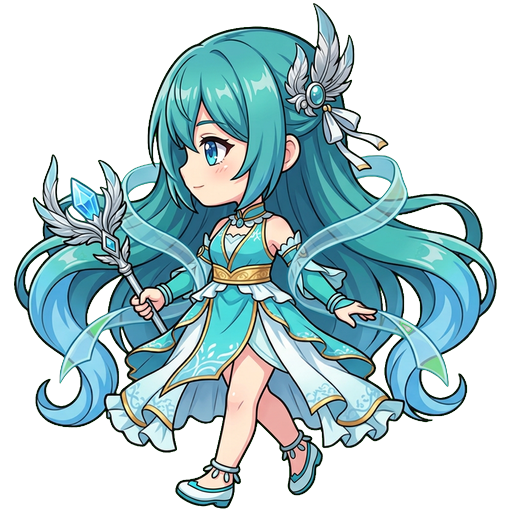
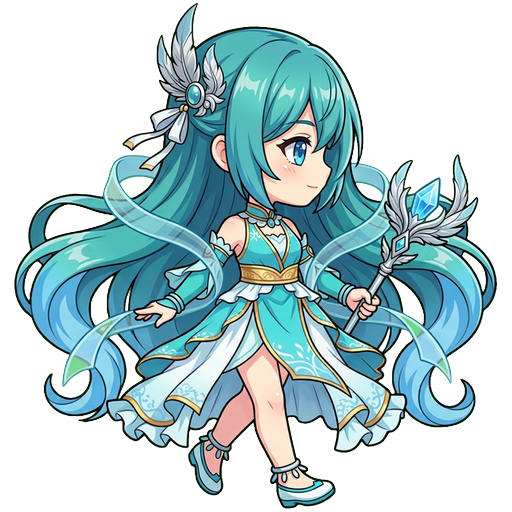
v2.1.1: colision de area de tronco + orden por pies (arbol delante/detras), rocas siempre debajo, fix teclas pegadas (blur), perfiles 12/12 verificados mirando a la derecha

diff --git a/src/map.js b/src/map.js
@@ -34,15 +34,24 @@ export class Mapa {
     for (const p of this.portalesPos) this._limpiarArea(p.tx, p.ty, 2); // plaza despejada
     this._limpiarArea(40, 40, 3); // zona de spawn central despejada
 
-    // Capa ALTA (árboles y rocas): se dibuja mezclada con las entidades
-    // en orden de profundidad (y) para que el jugador pase POR DETRÁS.
+    // Colisiones de TRONCO (área pequeña y baja) + capa ALTA de árboles.
+    // Las ROCAS sí colisionan (tile sólido) pero se dibujan SIEMPRE por
+    // debajo de las entidades: son bajas, nunca deben tapar al jugador.
+    this.tronco = {}; // índice de tile -> rect del tronco {x,y,w,h}
     this.tall = [];
     for (let ty = 0; ty < MAP_H; ty++) for (let tx = 0; tx < MAP_W; tx++) {
-      const d = this.deco[ty * MAP_W + tx];
-      if (d === 'arbol') this.tall.push({ tipo: 'arbol', x: tx * TILE_SIZE + 16, baseY: ty * TILE_SIZE + 30, ancho: 46, alto: 65 });
-      else if (d === 'roca') this.tall.push({ tipo: 'roca', x: tx * TILE_SIZE + 16, baseY: ty * TILE_SIZE + 25, ancho: 28, alto: 24 });
+      if (this.deco[ty * MAP_W + tx] === 'arbol') {
+        this.tall.push({ tipo: 'arbol', x: tx * TILE_SIZE + 16, baseY: ty * TILE_SIZE + 30, ancho: 46, alto: 65 });
+        this.tronco[ty * MAP_W + tx] = { x: tx * TILE_SIZE + 10, y: ty * TILE_SIZE + 8, w: 12, h: 22 };
+      }
     }
     this.tall.sort((a, b) => a.baseY - b.baseY);
+    // Envoltorios ESTABLES para el orden de profundidad (evita crear
+    // ~400 objetos por frame: eso provocaba tirones de memoria)
+    this._tallWrap = this.tall.map(it => ({
+      y: it.baseY,
+      o: { x: it.x - 32, y: it.baseY - 96, width: 64, height: 120, render: c => this.dibujarAlto(c, it) }
+    }));
   }
 
   _generar(seed) {
@@ -98,14 +107,25 @@ export class Mapa {
     return this.solid[ty * MAP_W + tx] !== 0;
   }
 
-  /** ¿Colisiona un rectángulo contra tiles sólidos? (recorre TODOS los
-   *  tiles que toca el rectángulo: sin puntos ciegos entre esquinas) */
+  /** ¿Colisiona un rectángulo contra el mapa? Recorre TODOS los tiles que
+   *  toca (sin puntos ciegos). Los ÁRBOLES solo bloquean por el TRONCO
+   *  (área baja y central del tile): puedes rodearlos, y si tus pies quedan
+   *  por encima del tronco pasas POR DETRÁS (te tapa la copa); si quedan
+   *  por debajo, pasas POR DELANTE (te ves encima del árbol). */
   rectSolido(x, y, w, h) {
     const tx0 = Math.floor(x / TILE_SIZE), tx1 = Math.floor((x + w) / TILE_SIZE);
     const ty0 = Math.floor(y / TILE_SIZE), ty1 = Math.floor((y + h) / TILE_SIZE);
     for (let ty = ty0; ty <= ty1; ty++) for (let tx = tx0; tx <= tx1; tx++) {
       if (tx < 0 || ty < 0 || tx >= MAP_W || ty >= MAP_H) return true;
-      if (this.solid[ty * MAP_W + tx] !== 0) return true;
+      const i = ty * MAP_W + tx;
+      const s = this.solid[i];
+      if (s === 0) continue;
+      if (s === 3) { // árbol: solo el tronco es macizo
+        const t = this.tronco[i];
+        if (t && x < t.x + t.w && x + w > t.x && y < t.y + t.h && y + h > t.y) return true;
+        continue;
+      }
+      return true; // pared, agua o roca: el tile entero bloquea
     }
     return false;
   }
@@ -171,7 +191,8 @@ export class Mapa {
       ctx.strokeStyle = 'rgba(0,0,0,0.07)';
       ctx.strokeRect(px + .5, py + .5, T, T);
 
-      // Decoración baja (flores) — árboles y rocas van en la capa alta
+      // Decoración baja: flores y ROCAS se dibujan aquí (siempre por DEBAJO
+      // del jugador y los enemigos) — los árboles van en la capa alta
       const d = this.deco[i];
       const g = this.game;
       if (d === 'flor') {
@@ -182,6 +203,19 @@ export class Mapa {
         } else {
           ctx.font = '13px serif'; ctx.textAlign = 'center';
           ctx.fillText(((x + y) % 2) ? '🌸' : '🌼', px + 16, py + 21);
+        }
+      } else if (d === 'roca') {
+        const img = g.assets['tile_roca'];
+        if (img) {
+          // sombra de anclaje + roca (colisiona, pero nunca tapa al jugador)
+          ctx.save(); ctx.globalAlpha = 0.28; ctx.fillStyle = '#000';
+          ctx.beginPath(); ctx.ellipse(px + 16, py + 23, 12, 4, 0, 0, Math.PI * 2); ctx.fill(); ctx.restore();
+          ctx.drawImage(img, px + 16 - 14, py + 25 - 24, 28, 24);
+        } else {
+          ctx.fillStyle = '#7d8590';
+          ctx.beginPath(); ctx.arc(px + 16, py + 20, 9, 0, Math.PI * 2); ctx.fill();
+          ctx.fillStyle = '#565e68';
+          ctx.beginPath(); ctx.arc(px + 13, py + 17, 4, 0, Math.PI * 2); ctx.fill();
         }
       }
     }
@@ -220,39 +254,24 @@ export class Mapa {
     }
   }
 
-  /** Dibuja un elemento ALTO (árbol/roca). El Game lo llama en orden de
+  /** Dibuja un elemento ALTO (árbol). El Game lo llama en orden de
    *  profundidad mezclado con jugador/enemigos: si el jugador está por
-   *  detrás (pies más arriba), el árbol se pinta ENCIMA y lo tapa. */
+   *  detrás (pies más arriba del tronco), el árbol se pinta ENCIMA. */
   dibujarAlto(ctx, it) {
     const g = this.game;
-    if (it.tipo === 'arbol') {
-      const img = g.assets['tile_arbol'];
-      if (img) {
-        ctx.save(); ctx.globalAlpha = 0.3; ctx.fillStyle = '#000';
-        ctx.beginPath(); ctx.ellipse(it.x, it.baseY - 2, 10, 3.5, 0, 0, Math.PI * 2); ctx.fill(); ctx.restore();
-        const wA = 46, hA = 65; // sprite 181x256 remasterizado
-        ctx.drawImage(img, it.x - wA / 2, it.baseY - hA, wA, hA);
-      } else { // respaldo procedural
-        const px = it.x - 16, py = it.baseY - 32;
-        ctx.fillStyle = '#5d4037'; ctx.fillRect(px + 13, py + 18, 6, 12);
-        ctx.fillStyle = '#14532d';
-        ctx.beginPath(); ctx.moveTo(px + 16, py - 4); ctx.lineTo(px + 4, py + 14); ctx.lineTo(px + 28, py + 14); ctx.fill();
-        ctx.fillStyle = '#166534';
-        ctx.beginPath(); ctx.moveTo(px + 16, py - 10); ctx.lineTo(px + 2, py + 8); ctx.lineTo(px + 30, py + 8); ctx.fill();
-      }
-    } else if (it.tipo === 'roca') {
-      const img = g.assets['tile_roca'];
-      if (img) {
-        ctx.save(); ctx.globalAlpha = 0.28; ctx.fillStyle = '#000';
-        ctx.beginPath(); ctx.ellipse(it.x, it.baseY - 2, 12, 4, 0, 0, Math.PI * 2); ctx.fill(); ctx.restore();
-        ctx.drawImage(img, it.x - 14, it.baseY - 24, 28, 24);
-      } else { // respaldo procedural
-        const px = it.x - 16, py = it.baseY - 32;
-        ctx.fillStyle = '#7d8590';
-        ctx.beginPath(); ctx.arc(px + 16, py + 20, 9, 0, Math.PI * 2); ctx.fill();
-        ctx.fillStyle = '#565e68';
-        ctx.beginPath(); ctx.arc(px + 13, py + 17, 4, 0, Math.PI * 2); ctx.fill();
-      }
+    const img = g.assets['tile_arbol'];
+    if (img) {
+      ctx.save(); ctx.globalAlpha = 0.3; ctx.fillStyle = '#000';
+      ctx.beginPath(); ctx.ellipse(it.x, it.baseY - 2, 10, 3.5, 0, 0, Math.PI * 2); ctx.fill(); ctx.restore();
+      const wA = 46, hA = 65; // sprite 181x256 remasterizado
+      ctx.drawImage(img, it.x - wA / 2, it.baseY - hA, wA, hA);
+    } else { // respaldo procedural
+      const px = it.x - 16, py = it.baseY - 32;
+      ctx.fillStyle = '#5d4037'; ctx.fillRect(px + 13, py + 18, 6, 12);
+      ctx.fillStyle = '#14532d';
+      ctx.beginPath(); ctx.moveTo(px + 16, py - 4); ctx.lineTo(px + 4, py + 14); ctx.lineTo(px + 28, py + 14); ctx.fill();
+      ctx.fillStyle = '#166534';
+      ctx.beginPath(); ctx.moveTo(px + 16, py - 10); ctx.lineTo(px + 2, py + 8); ctx.lineTo(px + 30, py + 8); ctx.fill();
     }
   }
 

diff --git a/src/game.js b/src/game.js
@@ -238,24 +238,18 @@ export class Game {
 
     this.currentMap.render(ctx, this.camera);
 
-    // Orden de render por profundidad (y) para efecto top-down.
-    // La capa ALTA del mapa (árboles, rocas, pilares) se mezcla con las
-    // entidades: si el jugador está detrás (pies más arriba), lo tapan.
-    const mapa = this.currentMap;
-    const capaAlta = (mapa.tall || []).map(it => ({
-      y: it.baseY,
-      o: {
-        x: it.x - 32, y: it.baseY - 96, width: 64, height: 120,
-        render: c => mapa.dibujarAlto(c, it)
-      }
-    }));
+    // Orden de render por profundidad: se compara la SUELA (pies) de cada
+    // entidad contra la base del tronco de los árboles/pilares. Así, si
+    // caminas por DEBAJO (delante) del árbol te ves ENCIMA; si pasas por
+    // detrás (arriba), la copa te tapa. Los envoltorios de la capa alta
+    // ya vienen precomputados del mapa (cero basura por frame).
     const dibujables = [
-      ...capaAlta,
-      ...this.groundItems.map(g => ({ y: g.y, o: g })),
-      ...this.npcs.map(n => ({ y: n.y, o: n })),
-      ...this.shadows.map(s => ({ y: s.y, o: s })),
-      ...this.enemies.map(e => ({ y: e.y, o: e })),
-      { y: this.player.y, o: this.player }
+      ...(this.currentMap._tallWrap || []),
+      ...this.groundItems.map(g => ({ y: g.y + (g._pie || 0), o: g })),
+      ...this.npcs.map(n => ({ y: n.y + (n._pie || 0), o: n })),
+      ...this.shadows.map(s => ({ y: s.y + (s._pie || 0), o: s })),
+      ...this.enemies.map(e => ({ y: e.y + (e._pie || 0), o: e })),
+      { y: this.player.y + this.player._pie, o: this.player }
     ].sort((a, b) => a.y - b.y);
     for (const d of dibujables) if (this.camera.isVisible(d.o)) d.o.render(ctx);
 

diff --git a/sw.js b/sw.js
@@ -25,9 +25,10 @@ const PRECACHE = [
   './assets/chars/mika.png', './assets/chars/roku.png', './assets/chars/elena.png',
   './assets/chars/atlas.png', './assets/chars/nix.png', './assets/chars/hana.png',
   './assets/chars/lado_kaito.png', './assets/chars/lado_rin.png',
-  './assets/chars/lado_grom.png', './assets/chars/lado_sora.png',
-  './assets/chars/lado_dante.png', './assets/chars/lado_mika.png',
-  './assets/chars/lado_roku.png', './assets/chars/lado_atlas.png',
+  './assets/chars/lado_yuna.png', './assets/chars/lado_grom.png',
+  './assets/chars/lado_sora.png', './assets/chars/lado_dante.png',
+  './assets/chars/lado_mika.png', './assets/chars/lado_roku.png',
+  './assets/chars/lado_elena.png', './assets/chars/lado_atlas.png',
   './assets/chars/lado_nix.png', './assets/chars/lado_hana.png',
   './assets/sprites/lobo.png', './assets/sprites/murcielago.png',
   './assets/sprites/nomuerto.png', './assets/sprites/duende.png', './assets/sprites/mago.png',

diff --git a/src/input.js b/src/input.js
@@ -43,6 +43,18 @@ export class InputManager {
     this.game.canvas.addEventListener('pointerdown', e => {
       if (e.pointerType === 'mouse' && this.game.state === 'PLAYING') this.justPressed['KeyZ'] = true;
     });
+
+    // Anti "personaje caminando solo": si la ventana pierde el foco (cambiar
+    // de pestaña, alt-tab, clic fuera), el navegador no avisa del keyup y la
+    // tecla quedaba pulsada para siempre. Soltamos TODO al perder el foco.
+    const soltarTodo = () => {
+      this.keys = {};
+      this.justPressed = {};
+      this._pinch = null;
+      if (this.joy.active) { this.joy.active = false; this.joy.dx = this.joy.dy = 0; }
+    };
+    window.addEventListener('blur', soltarTodo);
+    document.addEventListener('visibilitychange', () => { if (document.hidden) soltarTodo(); });
   }
 
   /** ¿Hay cursor utilizable? (PC sin modo táctil) */

diff --git a/src/ui.js b/src/ui.js
@@ -146,7 +146,7 @@ export class UI {
       <button class="rpg-btn purple" id="bt-nueva">✦ Nueva partida</button>
       <button class="rpg-btn small" id="bt-cazador">🧝 Cazador</button>
       <button class="rpg-btn small" id="bt-creditos">Créditos</button>
-      <div class="title-ver">v2.1 · 🎥 zoom: rueda/+/− · I inventario · M mapa · N sonido</div>`;
+      <div class="title-ver">v2.1.1 · 🎥 zoom: rueda/+/− · I inventario · M mapa · N sonido</div>`;
     o.querySelector('#bt-continuar').addEventListener('click', async () => {
       this.game.audio.playSFX('menuOk');
       await this._entrarBosque();

diff --git a/src/dungeon.js b/src/dungeon.js
@@ -47,6 +47,11 @@ export class DungeonMap {
       }
     }
     this.tall.sort((a, b) => a.baseY - b.baseY);
+    // Envoltorios estables (sin basura por frame)
+    this._tallWrap = this.tall.map(it => ({
+      y: it.baseY,
+      o: { x: it.x - 16, y: it.baseY - 40, width: 32, height: 44, render: c => this.dibujarAlto(c, it) }
+    }));
   }
 
   _pon(tx, ty, suelo, solid, deco = null) {

diff --git a/src/enemy.js b/src/enemy.js
@@ -50,6 +50,7 @@ export class Enemy {
     this.animT = randomFloat(0, 9);
     this.wanderT = 0; this.wanderX = 0; this.wanderY = 0;
     this.retroceder = 0; // murciélago: picada y retroceso
+    this._pie = 37;      // ancla de profundidad: la suela del sprite (y+37)
   }
 
   /* ---------- Utilidades de movimiento con colisión de mapa ---------- */

diff --git a/src/player.js b/src/player.js
@@ -47,6 +47,7 @@ export class Player {
     this.gold = 0;
     this.totalKills = 0;
     this.facingSign = 1; // flip visual del sprite
+    this._pie = 40;      // ancla de profundidad: la suela del sprite (y+40)
 
     // Animación (bobbing, el sprite es una imagen completa)
     this.animTimer = randomFloat(0, 5);

diff --git a/src/shadow.js b/src/shadow.js
@@ -26,6 +26,7 @@ export class Shadow {
     this.target = null;
     this.t = Math.random() * 9;
     this._humoT = 0;
+    this._pie = 37; // ancla de profundidad: la suela del sprite
   }
 
   get atk() { return this.player.atk * SHADOW_DAMAGE_RATIO; }

diff --git a/src/item.js b/src/item.js
@@ -23,6 +23,7 @@ export class GroundItem {
     this.width = 24; this.height = 24;
     this.recogido = false;
     this.t = Math.random() * 6;
+    this._pie = 22; // ancla de profundidad: apoyado en el suelo
   }
 
   update(dt) { this.t += dt; }

diff --git a/src/npc.js b/src/npc.js
@@ -14,6 +14,7 @@ export class NPC {
     this.width = 32; this.height = 32;
     this.interactRange = 58;
     this.t = Math.random() * 6;
+    this._pie = 30; // ancla de profundidad: la suela del sprite
   }
 
   update(dt) { this.t += dt; }

diff --git a/tools/lado.py b/tools/lado.py
@@ -2,9 +2,13 @@
 """Procesa los sprites de perfil (lado_*.png): chroma-key del fondo verde,
 recorte al contenido, escalado a la altura del sprite frontal y montado
 centrado-abajo en un lienzo 512x512 (mismo encuadre que los frontales).
-Los que no existan simplemente se saltan (el juego usa el frontal de respaldo)."""
+
+ADEMÁS detecta hacia dónde mira el perfil (pelo atrás / pie adelantado /
+ojos claros al frente) y voltea horizontalmente los que miren a la
+IZQUIERDA: todos los lado_*.png quedan mirando a la DERECHA (el motor
+los espeja con scaleX(-1) para mirar a la izquierda)."""
 import os
-from PIL import Image
+from PIL import Image, ImageOps
 
 BASE = '/home/user/sho-v2/assets/chars'
 CHARS = ['kaito', 'rin', 'yuna', 'grom', 'sora', 'dante', 'mika', 'roku', 'elena', 'atlas', 'nix', 'hana']
@@ -31,11 +35,39 @@ def chroma(im):
                 px[x, y] = (r, g2, b, (a * al) // 255)
     return im
 
-def procesar(nombre):
+def metrica_centrox(im, f0, f1, solo_brillantes=False):
+    """Centroide X de los pixeles opacos entre las fracciones de alto f0..f1.
+    Con solo_brillantes=True solo cuenta pixeles muy claros (esclerótica del ojo)."""
+    px = im.load()
+    w, h = im.size
+    y0, y1 = int(h * f0), int(h * f1)
+    sx = n = 0
+    for y in range(y0, min(y1, h)):
+        for x in range(w):
+            r, g, b, a = px[x, y]
+            if a <= 100: continue
+            if solo_brillantes and not (r > 175 and g > 175 and b > 175): continue
+            sx += x; n += 1
+    return (sx / n) if n else None
+
+def detectar_facing(im):
+    """Devuelve (score, detalle). score > 0 = mira a la DERECHA.
+    Señales: pelo (masa atrás, arriba), pie adelantado (piernas), ojos claros al frente."""
+    cx = im.width / 2
+    c_pelo = metrica_centrox(im, 0.04, 0.30) or cx
+    c_pier = metrica_centrox(im, 0.62, 0.90) or cx
+    c_ojos = metrica_centrox(im, 0.10, 0.32, solo_brillantes=True)
+    s_pelo = (cx - c_pelo) / cx          # pelo a la izquierda -> mira derecha (+)
+    s_pier = (c_pier - cx) / cx          # pie adelantado a la derecha -> mira derecha (+)
+    s_ojos = ((c_ojos - cx) / cx) if c_ojos else 0.0
+    score = s_pelo + s_pier + 0.6 * s_ojos
+    return score, (s_pelo, s_pier, s_ojos)
+
+def procesar(nombre, reporte):
     src = f'{BASE}/raw_lado_{nombre}.png'
     dst = f'{BASE}/lado_{nombre}.png'
     if not os.path.exists(src):
-        print(f'--  {nombre}: sin raw (se usará el frontal en el juego)')
+        reporte.append((nombre, None, None, 'SIN RAW'))
         return
     frente = Image.open(f'{BASE}/{nombre}.png').convert('RGBA')
     fbb = frente.getbbox() or (0, 0, LIENZO, LIENZO)
@@ -45,9 +77,19 @@ def procesar(nombre):
     im = chroma(Image.open(src).convert('RGBA'))
     bb = im.getbbox()
     if not bb:
-        print(f'!!  {nombre}: vacío tras el chroma')
+        reporte.append((nombre, None, None, 'VACIO'))
         return
     im = im.crop(bb)
+
+    # ¿Hacia dónde mira? Si mira a la IZQUIERDA, voltear (todos quedan a la DERECHA)
+    score, det = detectar_facing(im)
+    volteado = score < 0
+    if volteado:
+        im = ImageOps.mirror(im)
+        score2, _ = detectar_facing(im)
+    else:
+        score2 = score
+
     # escalar para que la altura del personaje coincida con el frontal
     f = alto_frente / im.height
     im = im.resize((max(1, round(im.width * f)), alto_frente), Image.LANCZOS)
@@ -59,7 +101,7 @@ def procesar(nombre):
     lienzo.paste(im, (x, y), im)
     lienzo.save(dst)
 
-    # informe: tamaño + residuo verde restante (calidad del chroma)
+    # residuo verde
     px = lienzo.load()
     opacos = verdes = 0
     for yy in range(0, LIENZO, 4):
@@ -69,8 +111,18 @@ def procesar(nombre):
                 opacos += 1
                 if g > 120 and g > r + 40 and g > b + 40:
                     verdes += 1
-    print(f'OK  {nombre}: lado_{nombre}.png  alto={alto_frente}px  opacos={opacos}  residuoVerde={verdes}')
+    reporte.append((nombre, score, score2, ('VOLTEADO (miraba izq)' if volteado else 'ok') + f'  opacos={opacos} verde={verdes}'))
 
 if __name__ == '__main__':
+    reporte = []
     for c in CHARS:
-        procesar(c)
+        procesar(c, reporte)
+    print(f"{'personaje':10} {'score_antes':>11} {'score_despues':>13}  resultado")
+    print('-' * 62)
+    for nombre, s0, s1, info in reporte:
+        print(f"{nombre:10} {(f'{s0:+.3f}' if s0 is not None else '—'):>11} {(f'{s1:+.3f}' if s1 is not None else '—'):>13}  {info}")
+    faltan = [n for n, s0, _, info in reporte if s0 is None]
+    if faltan:
+        print(f'\n!! FALTAN: {", ".join(faltan)}')
+    else:
+        print('\nTODOS LOS 12 PERFILES LISTOS ✓')
